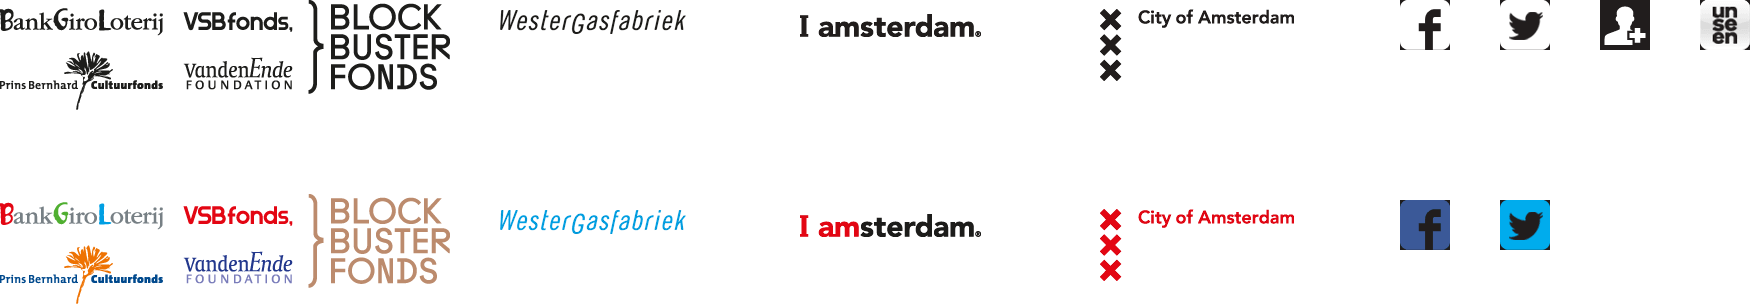
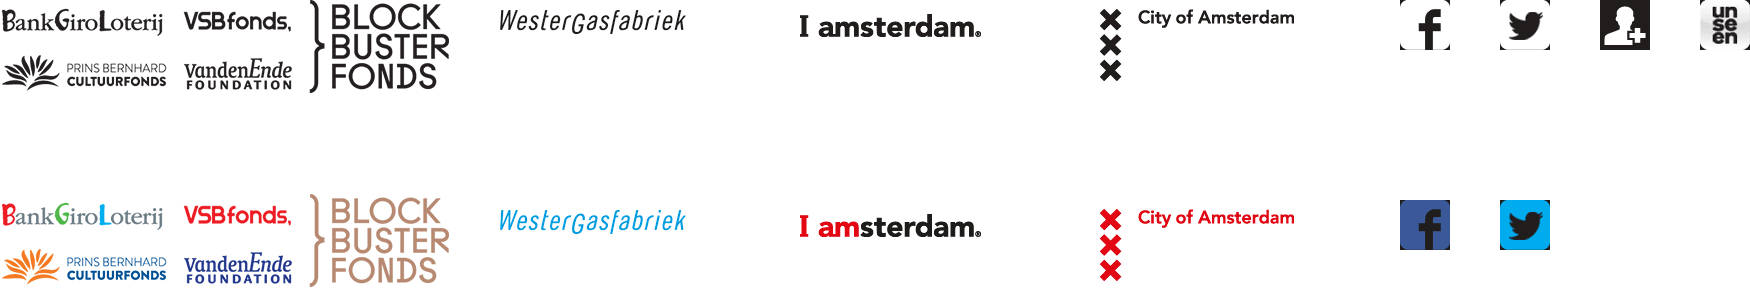
Change footer image

Changed region(s): [[0.0, 0.6513, 0.2469, 0.9474], [0.0, 0.0, 0.2777, 0.2961]]

diff --git a/app/assets/stylesheets/sass/_layout.css.scss b/app/assets/stylesheets/sass/_layout.css.scss
@@ -266,15 +266,17 @@ a.header-link {
   text-decoration: none;
   background-position:0px -194px;
 }
-
 #footer-sponsors #blockbusterfonds {
-  width: 294px;
+  width: 450px;
+  @include media-query(sm-max) {
+    width: 294px;
+  }
 }
-
 #footer-sponsors #westergasfabriek{
   background-position:-500px 0px;
   height:45px;
   width: 186px;
+  margin-bottom: 0px;
 }
 #footer-sponsors #westergasfabriek:hover{
   background-position:-500px -200px;
